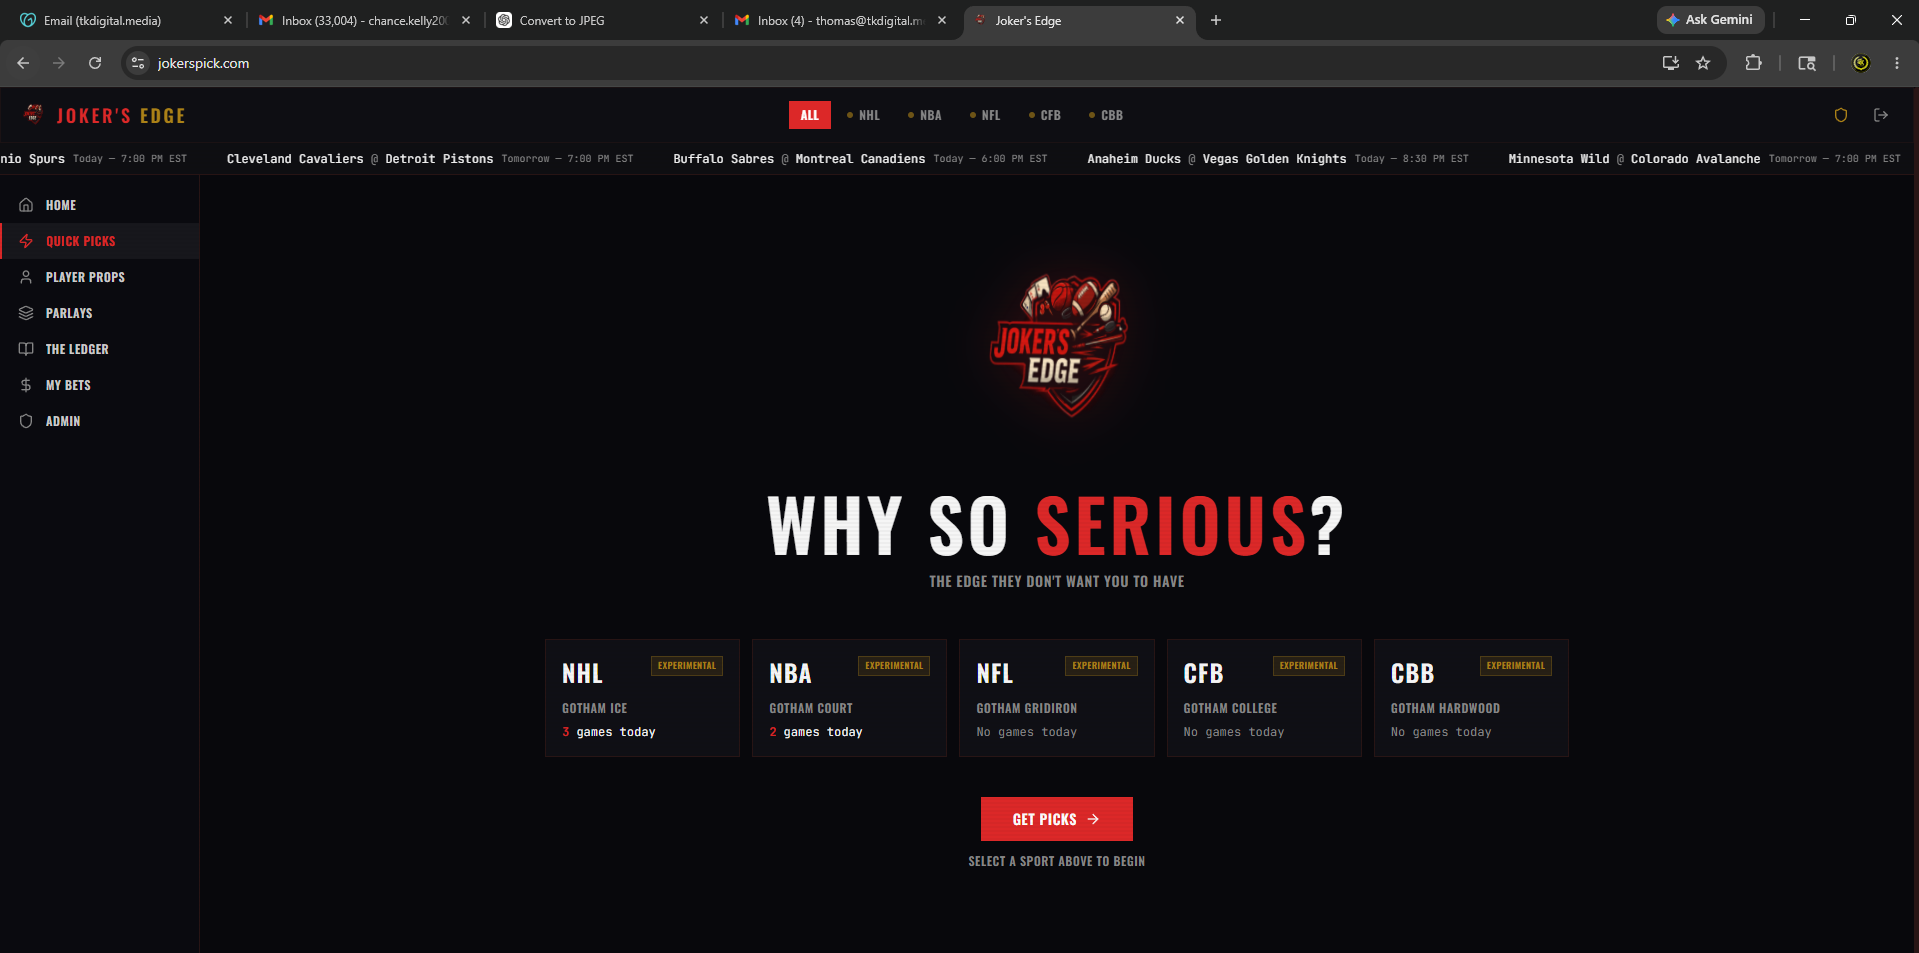
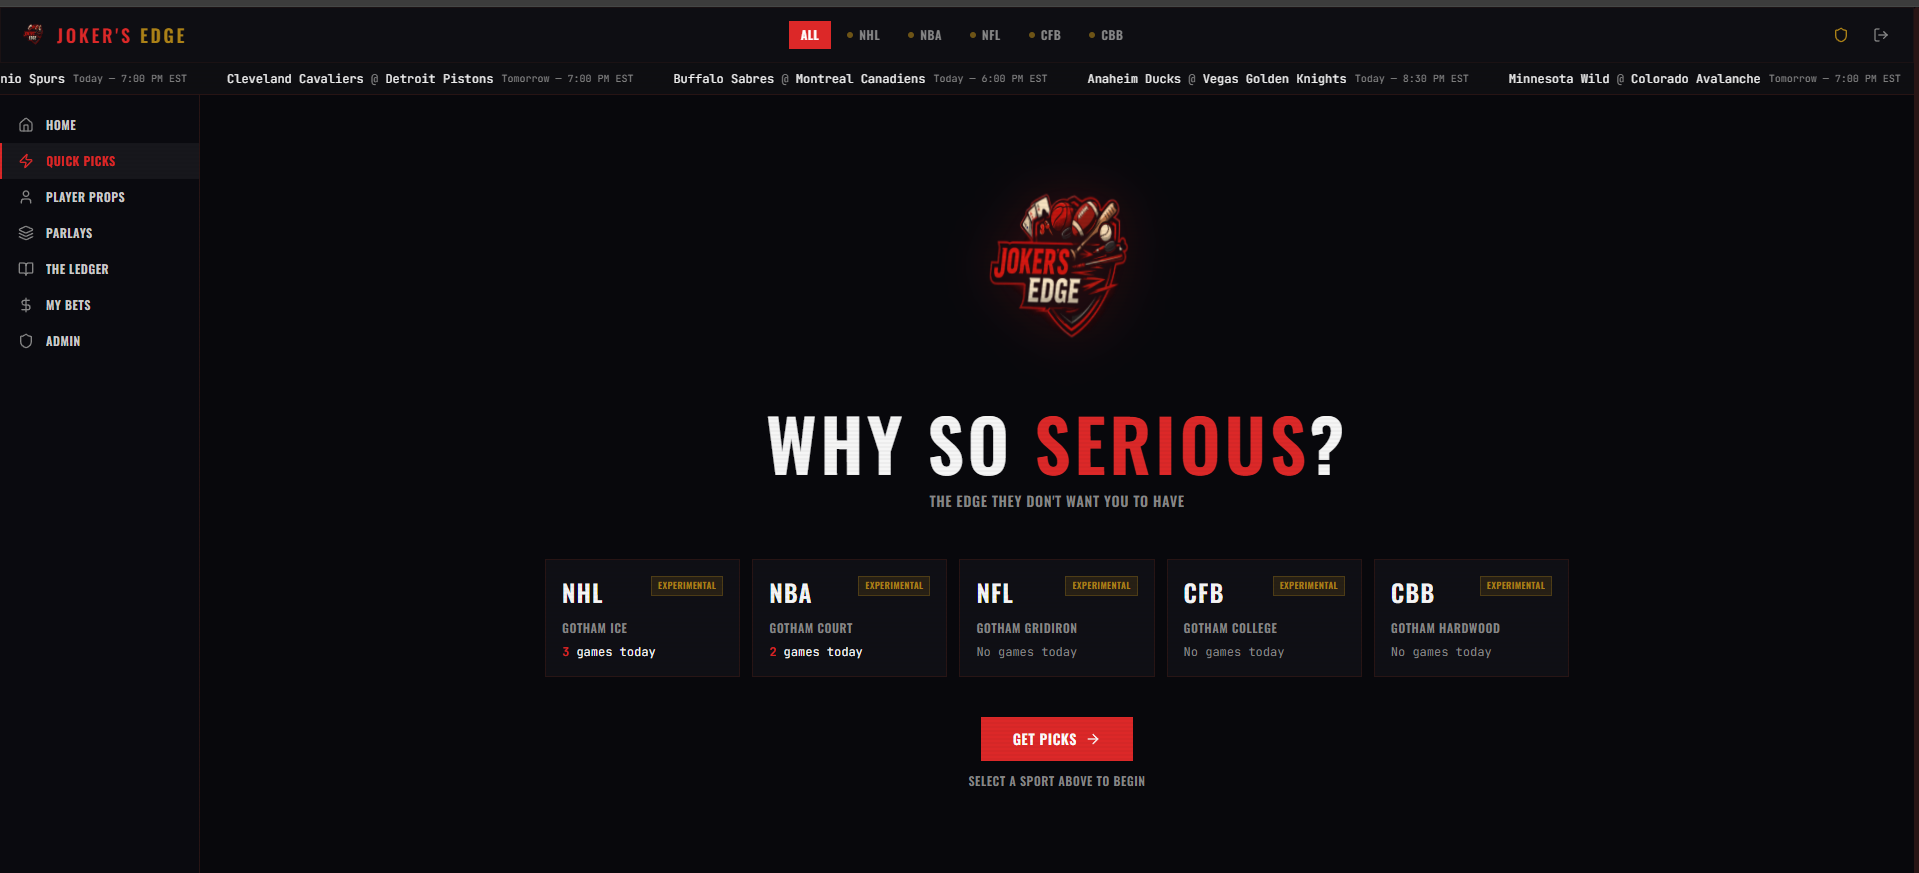
Add EmailJS contact form, crop portfolio image, and update social links
Replace mailto handler with EmailJS integration for direct form submission
and auto-reply. Crop browser chrome from Joker's Edge screenshot. Remove
X/Twitter icon and link LinkedIn to personal profile.

diff --git a/script.js b/script.js
@@ -255,16 +255,78 @@ document.querySelectorAll('a[href^="#"]').forEach(anchor => {
   });
 });
 
-// ===== Contact form submission =====
+// ===== Contact form submission (EmailJS) =====
+// Setup instructions:
+// 1. Create a free account at https://www.emailjs.com
+// 2. Add an email service (connect your email provider)
+// 3. Create two email templates:
+//    - "contact_notification": sends form data to thomas@tkdigitalmedia.com
+//      Subject: "New enquiry from {{from_name}}"
+//      Body: includes {{from_name}}, {{from_email}}, {{message}}
+//    - "contact_confirmation": auto-reply to {{from_email}}
+//      Subject: "Thanks for reaching out to TKDigital!"
+//      Body: confirmation message with {{from_name}}
+// 4. Replace the placeholder values below with your actual IDs:
+const EMAILJS_PUBLIC_KEY = 'HXx4oph6308vM8t__';
+const EMAILJS_SERVICE_ID = 'service_vltp3uj';
+const EMAILJS_NOTIFICATION_TEMPLATE_ID = 'template_z8bqqy7';
+const EMAILJS_CONFIRMATION_TEMPLATE_ID = 'template_c9frufn';
+
+emailjs.init(EMAILJS_PUBLIC_KEY);
+
 const contactForm = document.getElementById('contact-form');
 if (contactForm) {
+  const submitBtn = contactForm.querySelector('button[type="submit"]');
+  const originalBtnText = submitBtn.textContent;
+
   contactForm.addEventListener('submit', (e) => {
     e.preventDefault();
+
     const name = document.getElementById('contact-name').value.trim();
     const email = document.getElementById('contact-email').value.trim();
     const message = document.getElementById('contact-message').value.trim();
-    const subject = encodeURIComponent('New enquiry from ' + name);
-    const body = encodeURIComponent('Name: ' + name + '\nEmail: ' + email + '\n\n' + message);
-    window.location.href = 'mailto:thomas@tkdigitalmedia.com?subject=' + subject + '&body=' + body;
+
+    // Set loading state
+    submitBtn.disabled = true;
+    submitBtn.classList.add('btn-loading');
+    submitBtn.textContent = 'Sending...';
+
+    const templateParams = {
+      from_name: name,
+      from_email: email,
+      message: message
+    };
+
+    // Send notification email to thomas@tkdigitalmedia.com, then confirmation to sender
+    emailjs.send(EMAILJS_SERVICE_ID, EMAILJS_NOTIFICATION_TEMPLATE_ID, templateParams)
+      .then(() => {
+        return emailjs.send(EMAILJS_SERVICE_ID, EMAILJS_CONFIRMATION_TEMPLATE_ID, templateParams);
+      })
+      .then(() => {
+        // Success
+        submitBtn.classList.remove('btn-loading');
+        submitBtn.classList.add('btn-success');
+        submitBtn.textContent = 'Message Sent!';
+        contactForm.reset();
+
+        setTimeout(() => {
+          submitBtn.classList.remove('btn-success');
+          submitBtn.disabled = false;
+          submitBtn.textContent = originalBtnText;
+        }, 3000);
+      })
+      .catch((error) => {
+        // Error
+        console.error('EmailJS error:', error);
+        submitBtn.classList.remove('btn-loading');
+        submitBtn.classList.add('btn-error');
+        submitBtn.textContent = 'Failed to send — please try again';
+
+        setTimeout(() => {
+          submitBtn.classList.remove('btn-error');
+          submitBtn.disabled = false;
+          submitBtn.textContent = originalBtnText;
+        }, 4000);
+      });
   });
 }

diff --git a/index.html b/index.html
@@ -8,6 +8,7 @@
   <link rel="preconnect" href="https://fonts.gstatic.com" crossorigin>
   <link href="https://fonts.googleapis.com/css2?family=Orbitron:wght@700;800;900&family=Raleway:wght@200;300;400&family=Inter:wght@300;400;500;600;700;800&display=swap" rel="stylesheet">
   <link rel="stylesheet" href="style.css" />
+  <script src="https://cdn.jsdelivr.net/npm/@emailjs/browser@4/dist/email.min.js"></script>
 </head>
 <body>
 
@@ -265,10 +266,7 @@
         <h4>Get In Touch</h4>
         <a href="mailto:thomas@tkdigitalmedia.com">thomas@tkdigitalmedia.com</a>
         <div class="footer-socials">
-          <a href="#" aria-label="Twitter/X">
-            <svg width="16" height="16" viewBox="0 0 24 24" fill="currentColor"><path d="M18.244 2.25h3.308l-7.227 8.26 8.502 11.24H16.17l-5.214-6.817L4.99 21.75H1.68l7.73-8.835L1.254 2.25H8.08l4.713 6.231zm-1.161 17.52h1.833L7.084 4.126H5.117z"/></svg>
-          </a>
-          <a href="#" aria-label="LinkedIn">
+          <a href="https://www.linkedin.com/in/thomaskelly05" target="_blank" rel="noopener noreferrer" aria-label="LinkedIn">
             <svg width="16" height="16" viewBox="0 0 24 24" fill="currentColor"><path d="M20.447 20.452h-3.554v-5.569c0-1.328-.027-3.037-1.852-3.037-1.853 0-2.136 1.445-2.136 2.939v5.667H9.351V9h3.414v1.561h.046c.477-.9 1.637-1.85 3.37-1.85 3.601 0 4.267 2.37 4.267 5.455v6.286zM5.337 7.433a2.062 2.062 0 0 1-2.063-2.065 2.064 2.064 0 1 1 2.063 2.065zm1.782 13.019H3.555V9h3.564v11.452zM22.225 0H1.771C.792 0 0 .774 0 1.729v20.542C0 23.227.792 24 1.771 24h20.451C23.2 24 24 23.227 24 22.271V1.729C24 .774 23.2 0 22.222 0h.003z"/></svg>
           </a>
           <a href="#" aria-label="Instagram">

diff --git a/style.css b/style.css
@@ -883,6 +883,26 @@ a {
   box-shadow: 0 0 12px var(--glow-purple);
 }
 
+/* Submit button states */
+.btn-loading {
+  opacity: 0.7;
+  cursor: not-allowed;
+  pointer-events: none;
+  position: relative;
+}
+
+.btn-success {
+  background: linear-gradient(135deg, #2ecc71, #27ae60) !important;
+  box-shadow: 0 4px 20px rgba(46, 204, 113, 0.4) !important;
+  color: #fff !important;
+}
+
+.btn-error {
+  background: linear-gradient(135deg, #e74c3c, #c0392b) !important;
+  box-shadow: 0 4px 20px rgba(231, 76, 60, 0.4) !important;
+  color: #fff !important;
+}
+
 @media (max-width: 768px) {
   .form-row {
     grid-template-columns: 1fr;
